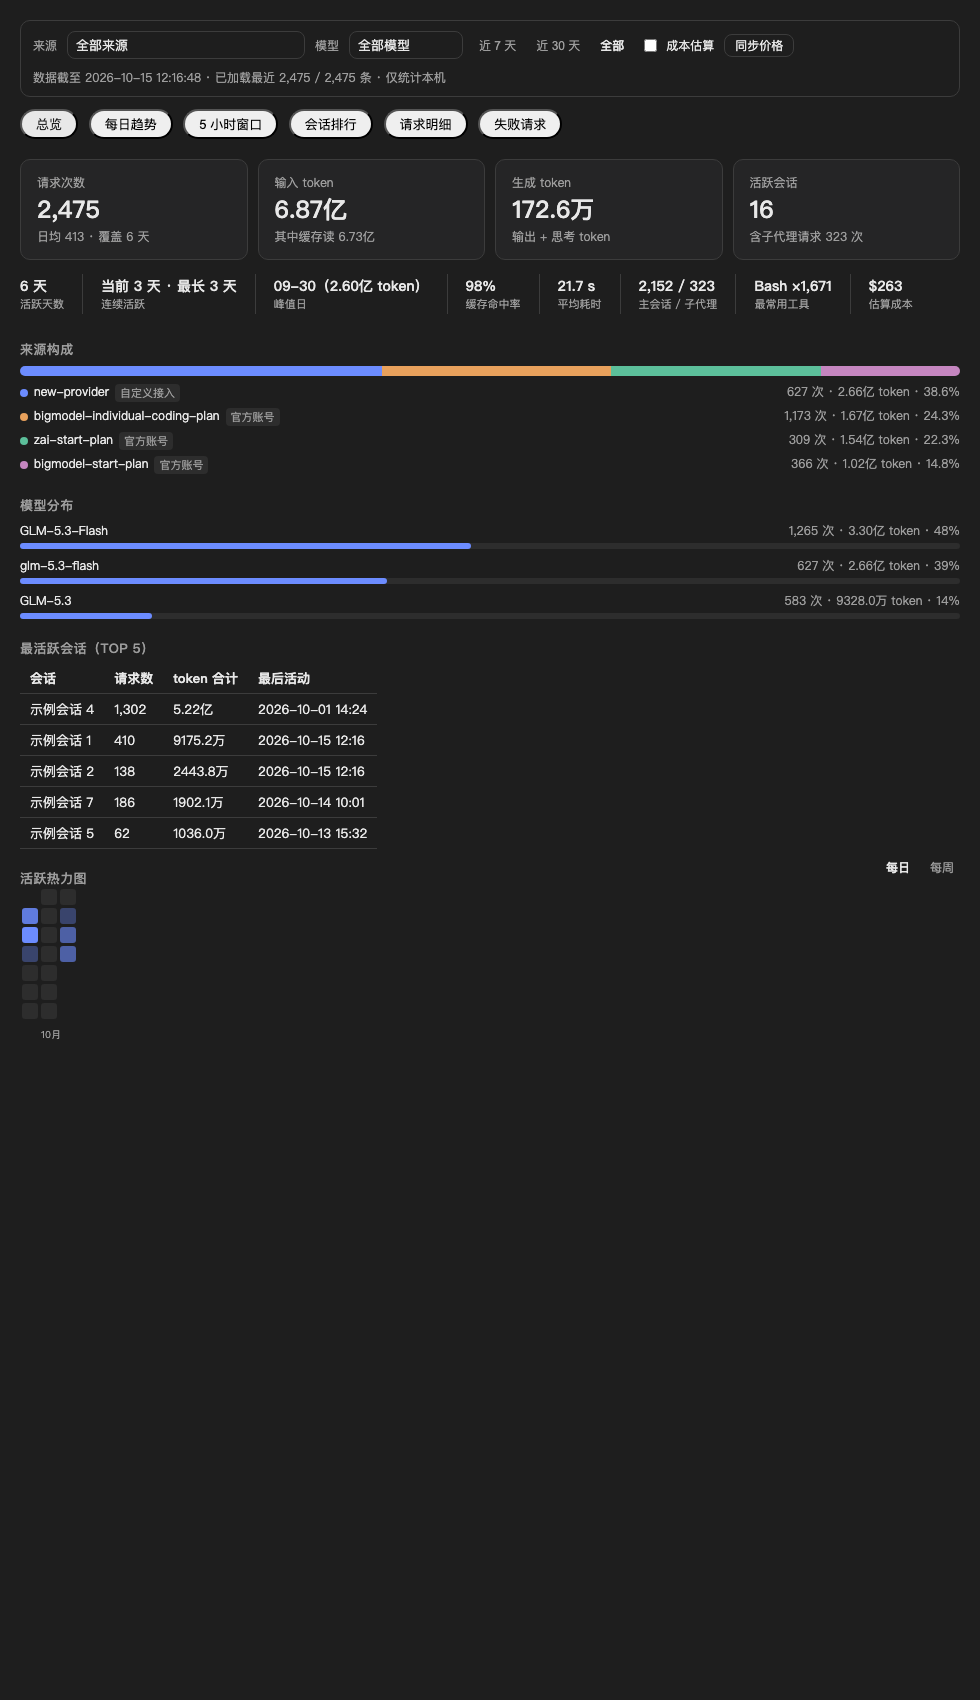
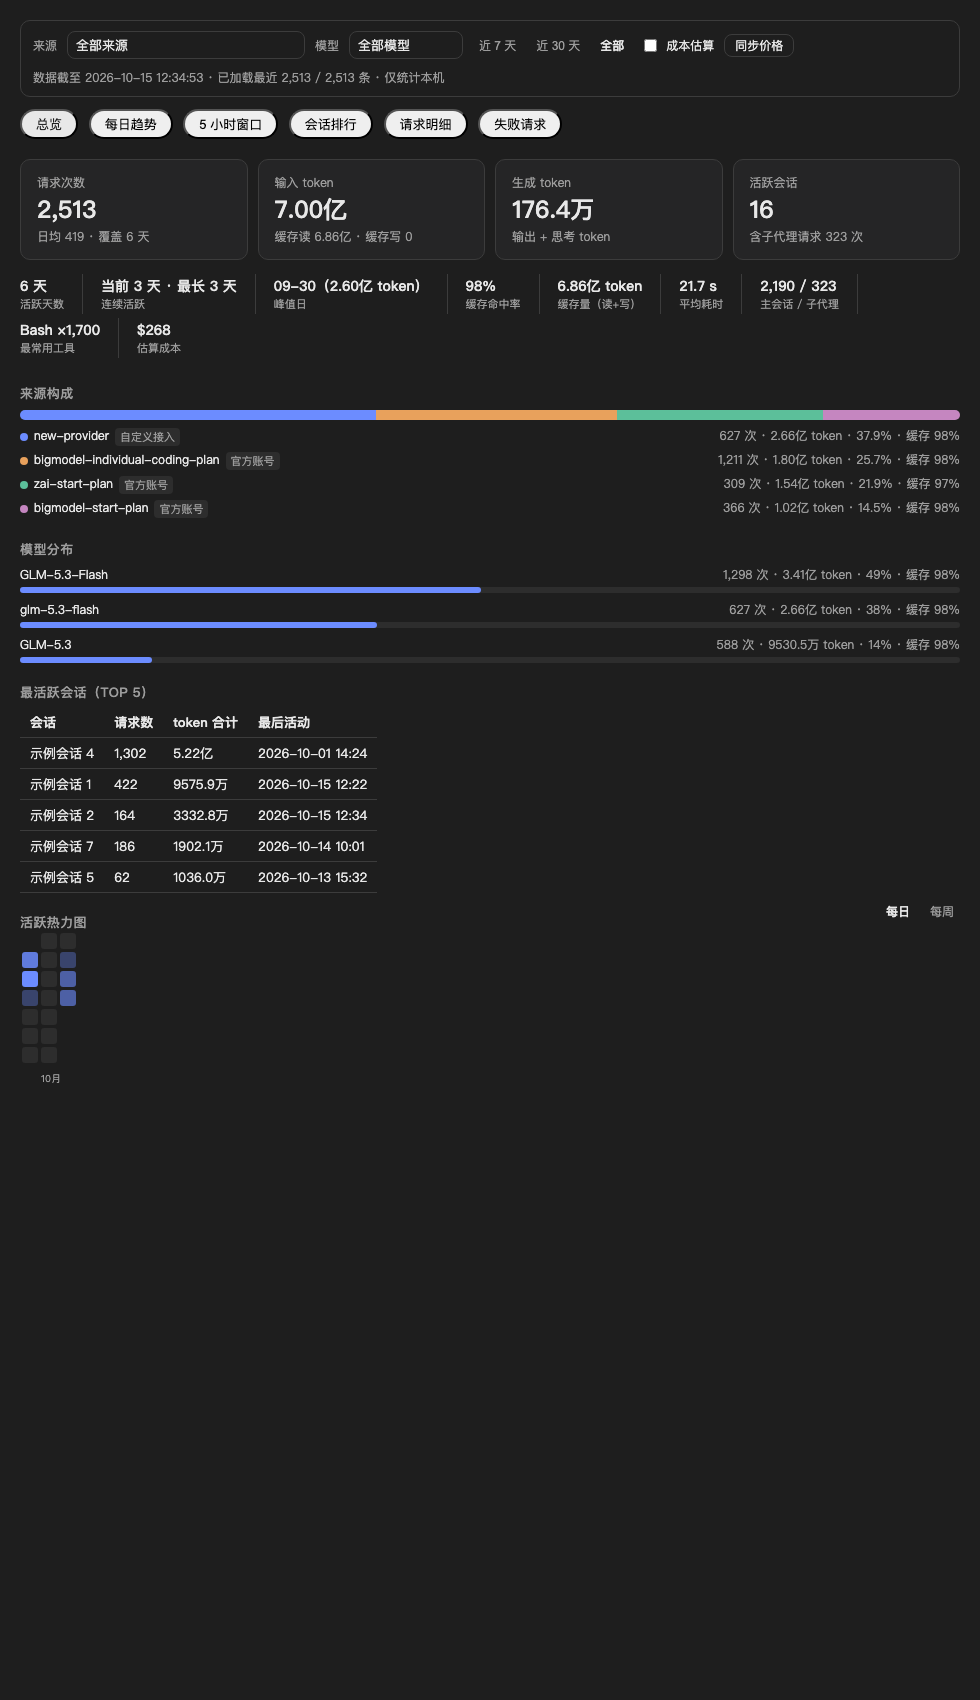
feat: 0.7.0 — cache-rate everywhere, richer request records, instant chart tooltips
- rows carry cache-write tokens and TTFT; detail table shows input/cache-read/
  cache-write/output/total/duration/TTFT/status + per-row cost (toggle) and sorts
- cache hit-rate and cache volume across KPI context, insights, providers, models
  and sessions (sortable), CLI sessions/models/providers gained cache-rate columns
- serve panel: custom hover tooltip layer for heatmap/trend charts (instant,
  full breakdown) replacing delayed native titles

diff --git a/README.md b/README.md
@@ -18,11 +18,13 @@
 
 ## 功能
 
-- **逐条明细**：每次模型请求一行——时间、会话、模型、来源、主会话/子代理、输入/生成/缓存读 token、耗时、状态
+- **逐条明细**：每次模型请求一行——时间、会话、模型、来源、主会话/子代理、输入/缓存读/缓存写/生成/合计 token、耗时、首字延迟、状态、每行估算成本（开关）；分页浏览、点表头排序
 - **来源区分**：自动区分 `account:*` 官方套餐（如 GLM Coding Plan）与自定义/BYOK 接入，仪表盘按来源堆叠展示每日趋势
 - **交互式仪表盘**（`/usage-ui`）：总览 / 每日趋势 / 5 小时窗口 / 会话排行 / 请求明细 / 失败请求六个标签页；来源、模型、时间范围（近 7 天 / 30 天 / 全部）全局筛选即时生效；请求明细**分页浏览**（每页 50 条 + 页码翻页）；表格点击表头排序；界面自动适配 ZCode 明暗主题。默认内嵌最近 3000 条请求，`/usage-ui <条数>` 可调（1–20000）
 - **5 小时窗口**：按相邻请求间隔 ≥5h 切分用量窗口（同 ccusage 口径），当前窗口显示进行中进度与剩余时间
-- **洞察指标**：活跃天数、当前/最长连续活跃、峰值日、缓存命中率、平均耗时、主会话/子代理拆分、最常用工具
+- **缓存率全链路**：缓存命中率、缓存量（读+写）进洞察；来源构成、模型分布、会话排行、请求明细逐项带缓存率
+- **悬停明细**：热力图、趋势图鼠标悬停即时显示该日/该来源的完整用量分解
+- **洞察指标**：活跃天数、当前/最长连续活跃、峰值日、缓存命中率、缓存量、平均耗时、主会话/子代理拆分、最常用工具
 - **活跃热力图**：GitHub 提交风格，按天 token 四分位着色，悬停看当日明细
 - **成本估算**（默认官方价）：内置从 [models.dev](https://models.dev) 打包的官方牌价（覆盖 GLM 全系）；`prices sync` 可**全量同步 models.dev 所有供应商模型价**（BYOK 场景下的 Claude / GPT / DeepSeek / Qwen 等都支持），自定义条目不会被覆盖；仪表盘有"成本估算"开关与"同步价格"按钮
 - **本地常驻面板**（`serve`）：一条命令在本机起一个只读 Web 服务，浏览器打开即得常驻看板——数据一次加载，燃烧率每 5 秒轻量轮询实时刷新，不占会话上下文
